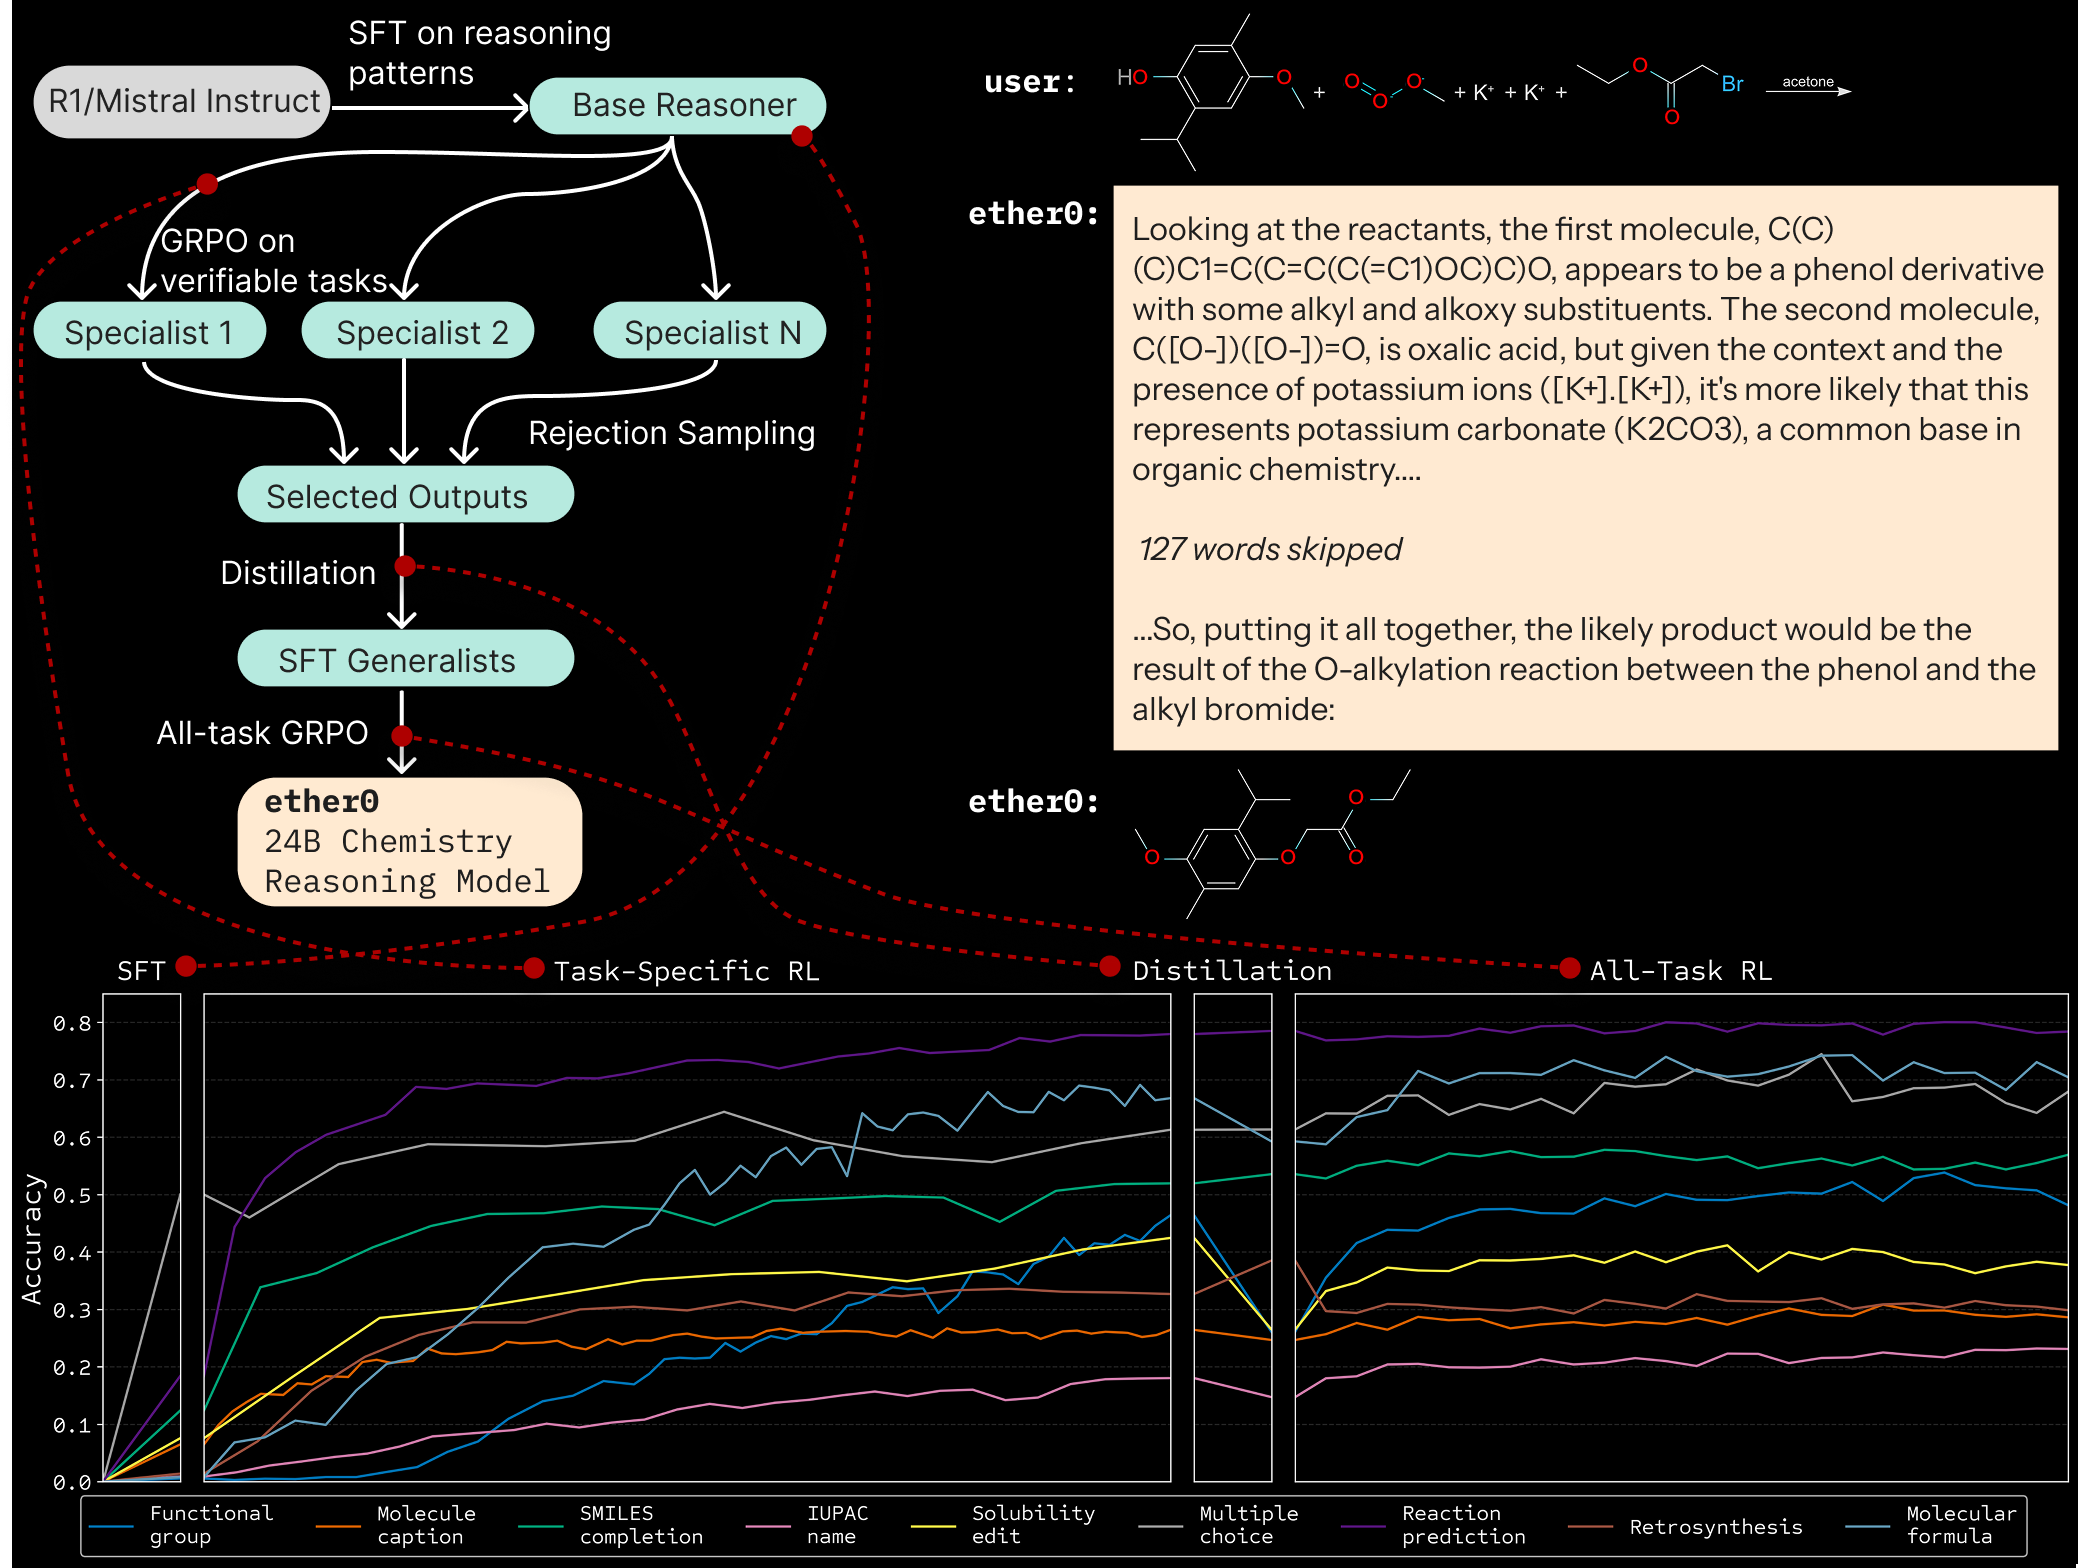
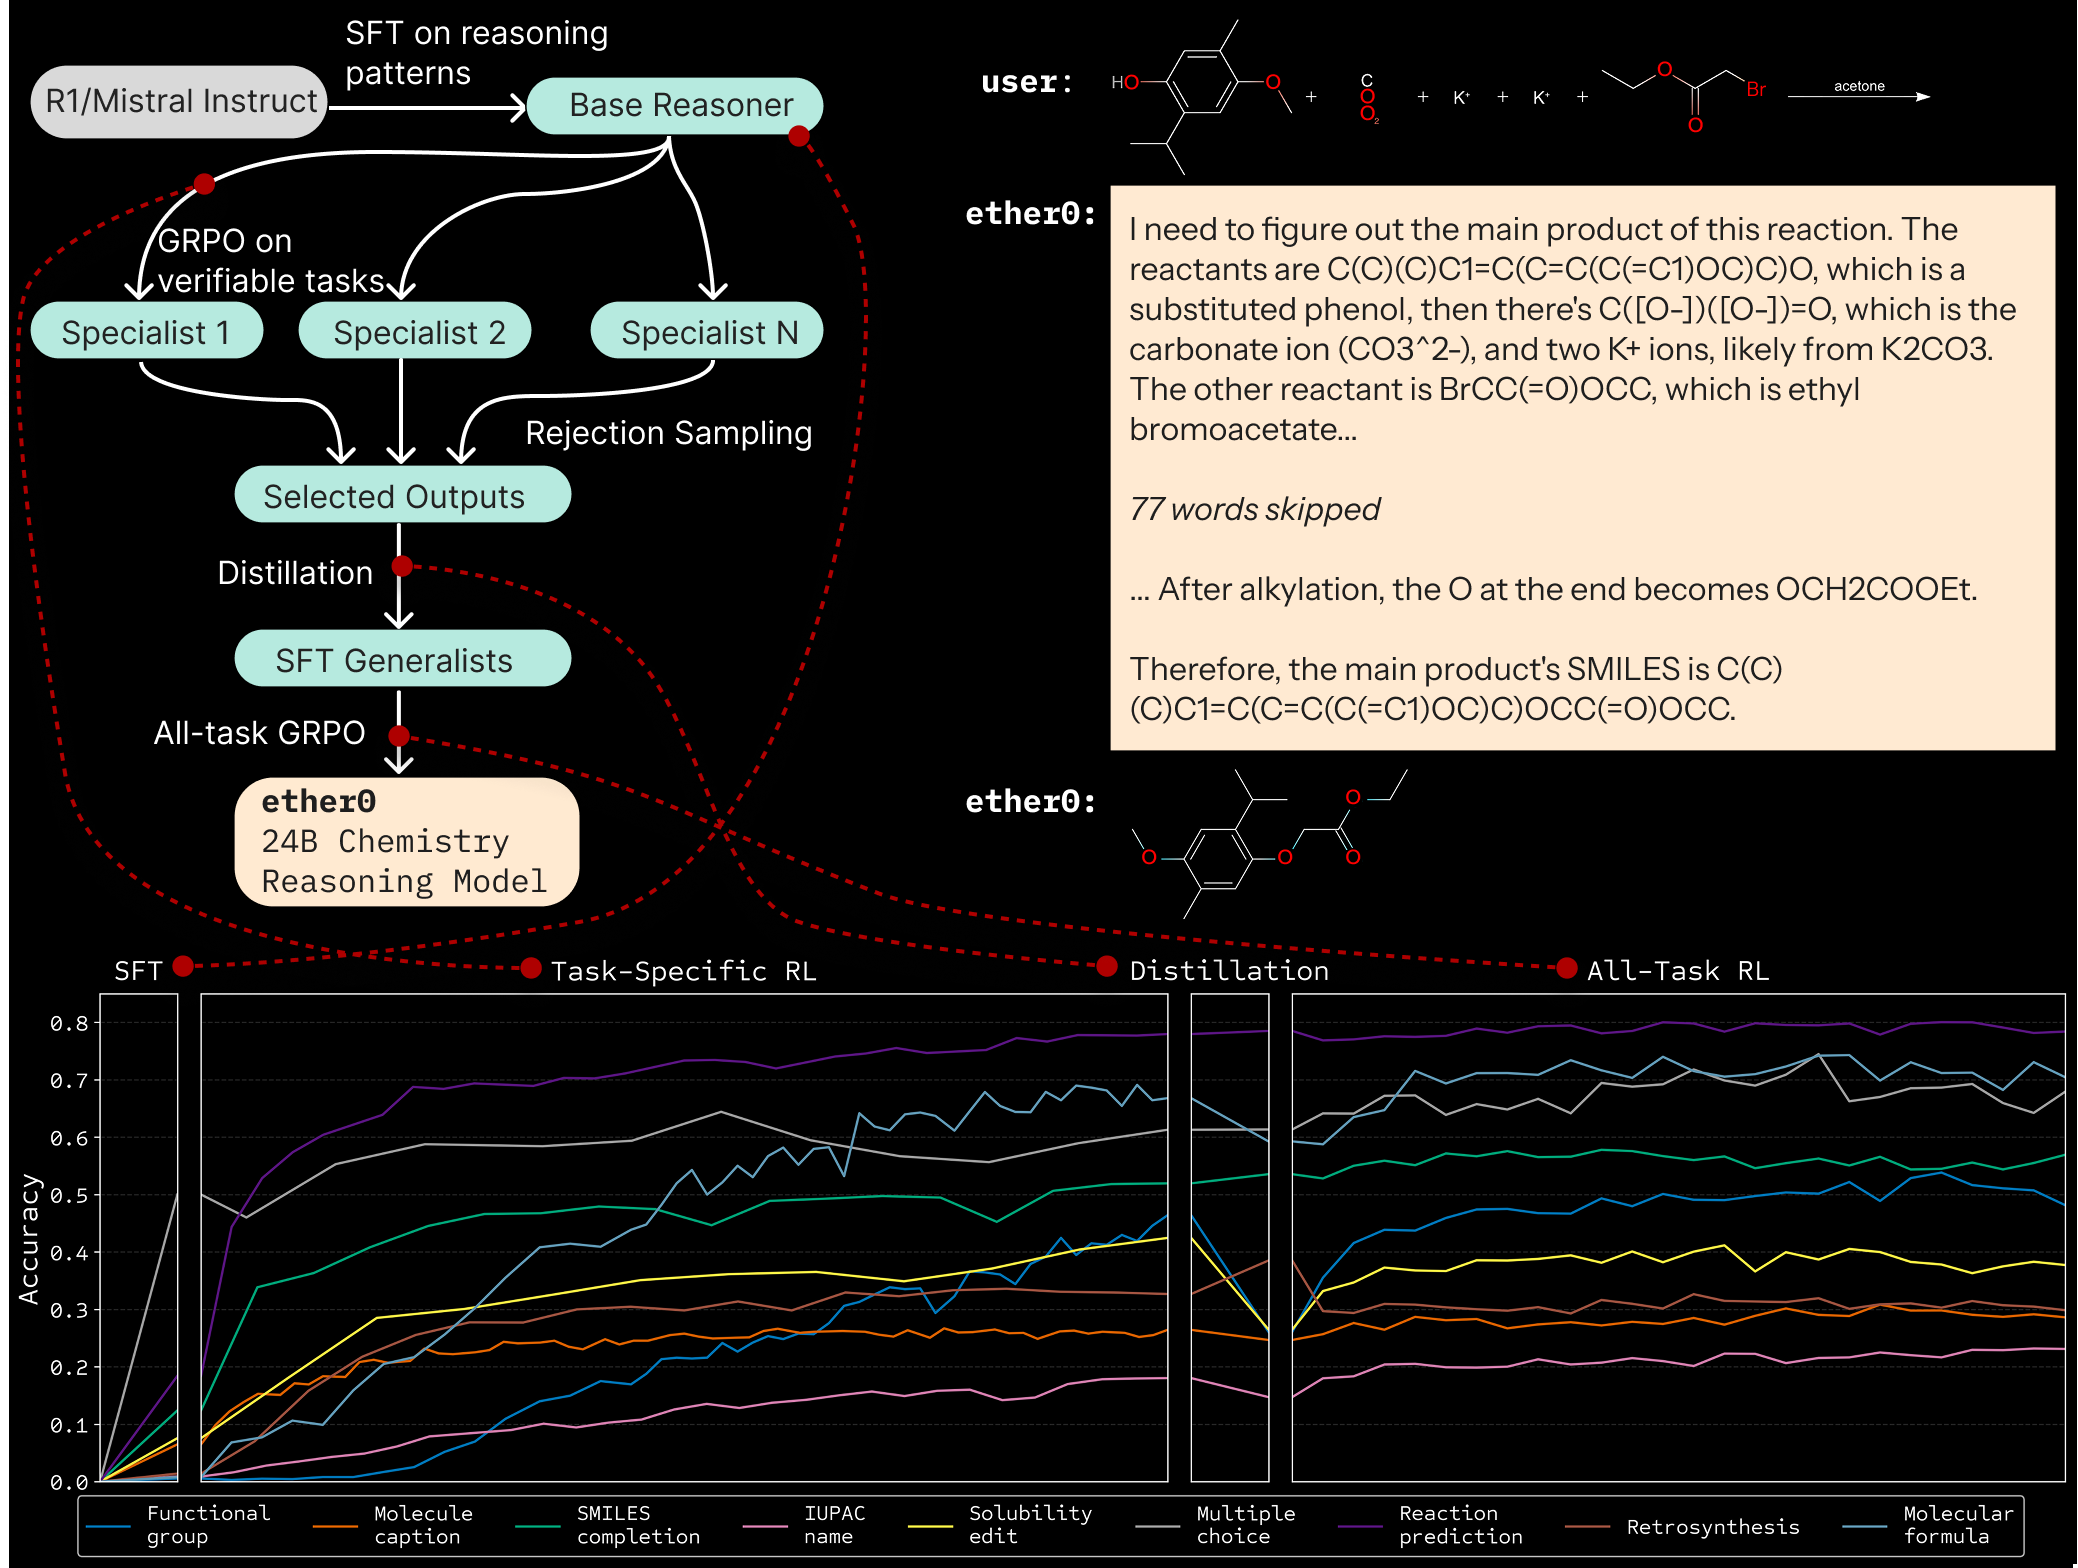
Updated `README` overview image (#21)

diff --git a/README.md b/README.md
@@ -147,6 +147,10 @@ with open("reaction.svg", "w") as f:
     f.write(rxn_text)
 ```
 
+#### Third Party Visualizers
+
+- [SmilesDrawer Playground](https://smilesdrawer.surge.sh/playground.html)
+
 ### Benchmark
 
 Here is a sample baseline of
